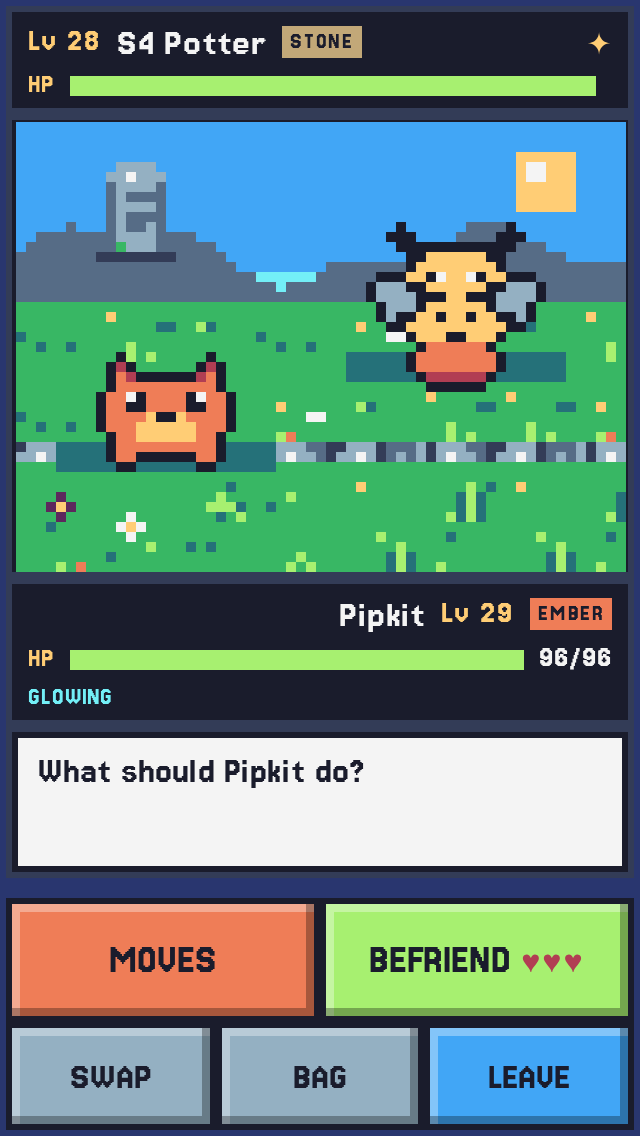
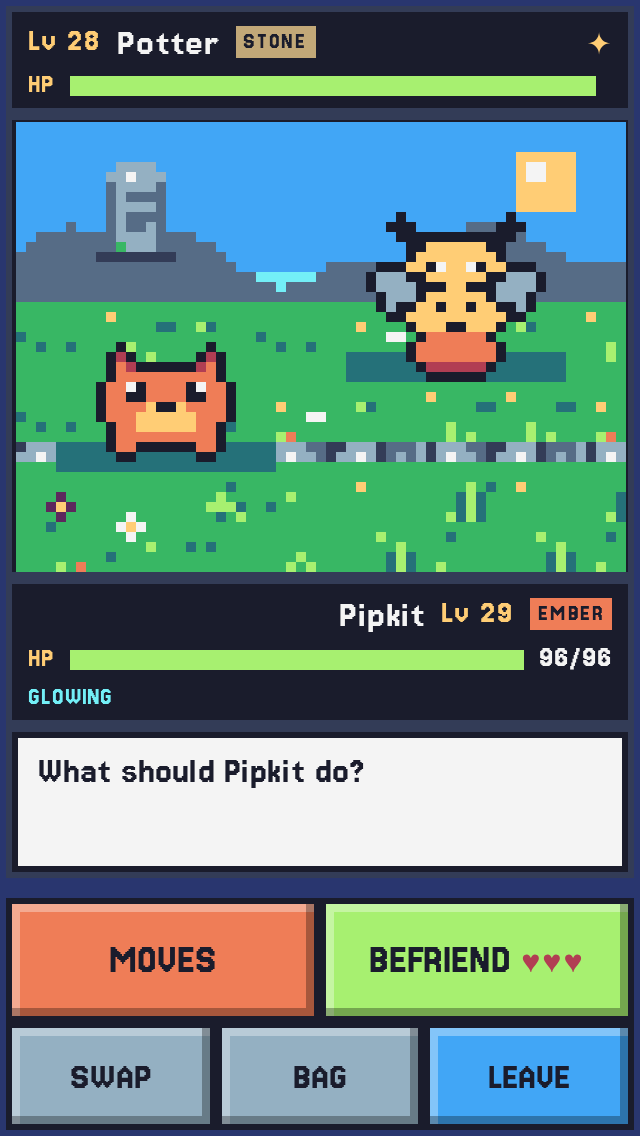
Route 4: shown species names drop the design seed codes ("S8 Walladder" -> "Walladder"), build 20261104-0112
- sprites.js: the twelve new stage names are the PLACEHOLDER names only; S8 / S10 / S1 / S4 stay in comments and ids.
- tests/new_species_act2.spec.js: names updated; no SPECIES stage name and no battle header matches /^S\d+ /.
- handoff/shots/route4/08-battle-*: re-taken at 390 and 320.

Claude-Session: https://claude.ai/code/session_01T4Pbfq5NMyuZaLtWMqoArd

Changed region(s): [[0.5625, 0.1849, 0.875, 0.3697], [0.1562, 0.2773, 0.375, 0.4313], [0.1875, 0.0, 0.5625, 0.0616]]

diff --git a/sprites.js b/sprites.js
@@ -407,24 +407,24 @@ const SPECIES = [
   // spawnNear: a tile char the line prefers to spawn beside (the adder basks by drystone walls, D1871); idleMul stretches
   // the wild's idle between steps (the heron stands still, D1871). The heron's stages are full 16-column profiles.
   { id:'adder', habitat:{meadow:4, hot:4, storm:3, mountain:3}, tiles:'grass', tableOnly:true, spawnNear:'h', type:'VOLT', blurb:"A wall adder. Its zigzag back looks like a lightning mark.", stages:[
-    { name:"S8 Adderlet", col:{a:PAL.h,b:PAL.y,c:PAL.m,d:PAL.r,x:PAL.d}, half:['........','........','........','........','........','......aa','.....aaa','....aiea','....aeea','.....aad','......ab','....abab','..aababa','.abaabab','.caaaaaa','..cccccc']},
-    { name:"S8 Walladder", col:{a:PAL.m,b:PAL.y,c:PAL.d,d:PAL.r,x:PAL.k}, half:['........','........','......aa','.....aaa','....aaaa','....aiea','....aeea','.....aad','......ab','......ba','......ab','...aabaa','..abaaba','.abaabab','caaaaaaa','.ccccccc']},
-    { name:"S8 Zigzag", col:{a:PAL.m,b:PAL.y,c:PAL.d,d:PAL.r,x:PAL.w}, half:['....x..x','....b.bb','....aaaa','...aaaaa','...aaiea','...aaeea','...baaaa','....aaad','.....aab','.....aba','..aabaab','.aabaaba','abaabaab','baabaaba','caaaaaaa','cccccccc']}
+    { name:"Adderlet", col:{a:PAL.h,b:PAL.y,c:PAL.m,d:PAL.r,x:PAL.d}, half:['........','........','........','........','........','......aa','.....aaa','....aiea','....aeea','.....aad','......ab','....abab','..aababa','.abaabab','.caaaaaa','..cccccc']},
+    { name:"Walladder", col:{a:PAL.m,b:PAL.y,c:PAL.d,d:PAL.r,x:PAL.k}, half:['........','........','......aa','.....aaa','....aaaa','....aiea','....aeea','.....aad','......ab','......ba','......ab','...aabaa','..abaaba','.abaabab','caaaaaaa','.ccccccc']},
+    { name:"Zigzag", col:{a:PAL.m,b:PAL.y,c:PAL.d,d:PAL.r,x:PAL.w}, half:['....x..x','....b.bb','....aaaa','...aaaaa','...aaiea','...aaeea','...baaaa','....aaad','.....aab','.....aba','..aabaab','.aabaaba','abaabaab','baabaaba','caaaaaaa','cccccccc']}
   ]},
   { id:'heron', habitat:{water:6, rain:3, fog:3, night:3}, tiles:'shore', tableOnly:true, idleMul:3, type:'TIDE', blurb:"A striped reed-heron. It stands so still it becomes a reed.", stages:[
-    { name:"S10 Reedling", grid:['................','................','................','.......F........','.......G........','......GGG.......','......GkG.......','......GGGt......','.......GGtt.....','......GwGttt....','.....GwwGttt....','.....GwwGGtt....','......GwGGt.....','.......GGG......','.......F.F......','.......F.F......']},
-    { name:"S10 Stalker", grid:['.......F........','.......G........','.......G........','......GGG.......','......GkGt......','......GGGt......','.......GF.......','.......FG.......','.......GF.......','.......FGt......','......GwGtt.....','.....GwwGttt....','.....GwwGGttt...','......GwGGtt....','.......GGG......','.......F.F......']},
-    { name:"S10 Boomer", grid:['.......F........','.......G........','.......G.tt.....','......GGGtt.....','......GkGGt.....','......GGGG......','......GwFG......','.....GwwGF......','.....GwFGG......','.....GGFGGt.....','......GGGGtt....','.....tGGGGttt...','....ttGGGGGttt..','.....ttGGGGtt...','.......G..G.....','.......F..F.....']}
+    { name:"Reedling", grid:['................','................','................','.......F........','.......G........','......GGG.......','......GkG.......','......GGGt......','.......GGtt.....','......GwGttt....','.....GwwGttt....','.....GwwGGtt....','......GwGGt.....','.......GGG......','.......F.F......','.......F.F......']},
+    { name:"Stalker", grid:['.......F........','.......G........','.......G........','......GGG.......','......GkGt......','......GGGt......','.......GF.......','.......FG.......','.......GF.......','.......FGt......','......GwGtt.....','.....GwwGttt....','.....GwwGGttt...','......GwGGtt....','.......GGG......','.......F.F......']},
+    { name:"Boomer", grid:['.......F........','.......G........','.......G.tt.....','......GGGtt.....','......GkGGt.....','......GGGG......','......GwFG......','.....GwwGF......','.....GwFGG......','.....GGFGGt.....','......GGGGtt....','.....tGGGGttt...','....ttGGGGGttt..','.....ttGGGGtt...','.......G..G.....','.......F..F.....']}
   ]},
   { id:'dipper', habitat:{water:6, cold:4, rain:2}, tiles:'shore', tableOnly:true, type:'TIDE', blurb:"Walks the stream bed. Hunches when the water runs cold.", stages:[
-    { name:"S1 Chick", col:{a:PAL.m,b:PAL.w,c:PAL.d,d:PAL.y,x:PAL.k}, half:['........','........','........','........','.....aaa','....aaaa','...aaaaa','...aeiaa','...aaaaa','.ccaaabb','c.caabbb','..caabbb','...caabb','....aaaa','......d.','.....dd.']},
-    { name:"S1 Walker", col:{a:PAL.m,b:PAL.w,c:PAL.d,d:PAL.y,x:PAL.k}, half:['........','........','.....aaa','....aaaa','...aaaaa','...aeiaa','...aaaax','..aaaaab','.caaaabb','ccaaabbb','ccaaabbb','.caaaabb','..caaaaa','...aaaaa','.....d..','....dd..']},
-    { name:"S1 Diver", col:{a:PAL.m,b:PAL.w,c:PAL.n,d:PAL.y,x:PAL.k}, half:['......c.','.....cc.','....aaaa','...aaaaa','..aaaaaa','..aaeiaa','..aaaaax','.aaaaaab','ccaaaabb','cccaabbb','cccaabbb','.ccaaabb','..caaaaa','...aaaaa','....d...','...dd...']}
+    { name:"Chick", col:{a:PAL.m,b:PAL.w,c:PAL.d,d:PAL.y,x:PAL.k}, half:['........','........','........','........','.....aaa','....aaaa','...aaaaa','...aeiaa','...aaaaa','.ccaaabb','c.caabbb','..caabbb','...caabb','....aaaa','......d.','.....dd.']},
+    { name:"Walker", col:{a:PAL.m,b:PAL.w,c:PAL.d,d:PAL.y,x:PAL.k}, half:['........','........','.....aaa','....aaaa','...aaaaa','...aeiaa','...aaaax','..aaaaab','.caaaabb','ccaaabbb','ccaaabbb','.caaaabb','..caaaaa','...aaaaa','.....d..','....dd..']},
+    { name:"Diver", col:{a:PAL.m,b:PAL.w,c:PAL.n,d:PAL.y,x:PAL.k}, half:['......c.','.....cc.','....aaaa','...aaaaa','..aaaaaa','..aaeiaa','..aaaaax','.aaaaaab','ccaaaabb','cccaabbb','cccaabbb','.ccaaabb','..caaaaa','...aaaaa','....d...','...dd...']}
   ]},
   { id:'jugwasp', habitat:{mountain:4, hot:3, meadow:2}, tiles:'grass', tableOnly:true, type:'STONE', blurb:"Shapes tiny clay jugs on warm banks. Carries one always.", stages:[
-    { name:"S4 Bearer", col:{a:PAL.y,b:PAL.h,c:PAL.o,d:PAL.r,x:PAL.k}, half:['........','........','...x....','....x...','.....aaa','....aeia','.bb..aaa','bbbb..xa','.bb..aaa','....aaxa','....aaaa','.....aax','......cc','.....ccc','.....ccc','......dd']},
-    { name:"S4 Potter", col:{a:PAL.y,b:PAL.h,c:PAL.o,d:PAL.r,x:PAL.k}, half:['........','..x.....','...x....','....xaaa','....aaaa','...aaeia','bbb..aaa','bbbb..xa','.bbb.aaa','.b..aaxa','...aaaaa','....aaax','.....ccc','....cccc','....cccc','.....ddd']},
-    { name:"S4 Cluster", col:{a:PAL.y,b:PAL.h,c:PAL.o,d:PAL.r,x:PAL.k}, half:['.x......','..x.....','...xaaaa','...aaaaa','...aaeia','bb..aaaa','bbbb..xa','bbbb.aaa','.bb.aaxa','...aaaaa','....aaax','.cc..ccc','cccccccc','cccccccc','.dd.dddd','........']}
+    { name:"Bearer", col:{a:PAL.y,b:PAL.h,c:PAL.o,d:PAL.r,x:PAL.k}, half:['........','........','...x....','....x...','.....aaa','....aeia','.bb..aaa','bbbb..xa','.bb..aaa','....aaxa','....aaaa','.....aax','......cc','.....ccc','.....ccc','......dd']},
+    { name:"Potter", col:{a:PAL.y,b:PAL.h,c:PAL.o,d:PAL.r,x:PAL.k}, half:['........','..x.....','...x....','....xaaa','....aaaa','...aaeia','bbb..aaa','bbbb..xa','.bbb.aaa','.b..aaxa','...aaaaa','....aaax','.....ccc','....cccc','....cccc','.....ddd']},
+    { name:"Cluster", col:{a:PAL.y,b:PAL.h,c:PAL.o,d:PAL.r,x:PAL.k}, half:['.x......','..x.....','...xaaaa','...aaaaa','...aaeia','bb..aaaa','bbbb..xa','bbbb.aaa','.bb.aaxa','...aaaaa','....aaax','.cc..ccc','cccccccc','cccccccc','.dd.dddd','........']}
   ]},
 ];
 

diff --git a/index.html b/index.html
@@ -2,7 +2,7 @@
 <html lang="en">
 <head>
 <meta charset="utf-8">
-<meta name="kw-build" content="20261104-0012"><meta name="viewport" content="width=device-width, initial-scale=1, maximum-scale=1, user-scalable=no, viewport-fit=cover"><meta http-equiv="Cache-Control" content="no-cache">
+<meta name="kw-build" content="20261104-0112"><meta name="viewport" content="width=device-width, initial-scale=1, maximum-scale=1, user-scalable=no, viewport-fit=cover"><meta http-equiv="Cache-Control" content="no-cache">
 <meta name="theme-color" content="#1a1c2c">
 <meta name="apple-mobile-web-app-capable" content="yes">
 <meta name="mobile-web-app-capable" content="yes">
@@ -10,10 +10,10 @@
 <meta name="application-name" content="Walklings">
 <meta name="apple-mobile-web-app-title" content="Walklings">
 <meta name="description" content="Walklings: raise a pixel Walkling, walk the map and befriend wild ones.">
-<link rel="icon" href="icons/icon-192.png?v=20261104-0012">
-<link rel="apple-touch-icon" href="icons/apple-touch-icon.png?v=20261104-0012">
-<link rel="manifest" href="manifest.json?v=20261104-0012">
-<link rel="stylesheet" href="style.css?v=20261104-0012"></head><body>
+<link rel="icon" href="icons/icon-192.png?v=20261104-0112">
+<link rel="apple-touch-icon" href="icons/apple-touch-icon.png?v=20261104-0112">
+<link rel="manifest" href="manifest.json?v=20261104-0112">
+<link rel="stylesheet" href="style.css?v=20261104-0112"></head><body>
 <div id="app">
   <header id="top">
     <div class="who"><button id="repBtn" class="icon-btn" type="button" aria-label="People"><canvas id="repIcon" width="12" height="12" aria-hidden="true"></canvas></button><canvas id="hdrIcon" width="18" height="18"></canvas><span id="hdrName">Walklings</span><span id="fastTag" class="fast-tag" title="Debug fast decay is on" hidden>FAST</span><button id="dbgTag" class="fast-tag dbg-tag" type="button" title="Debug tools" aria-label="Debug tools" hidden>DBG</button></div>
@@ -786,29 +786,29 @@
 </div>
 <!-- New-build notice (version.json differs from window.BUILD); never shown over a battle or an overlay -->
 <div id="buildBar" class="build-bar" role="status" hidden><button id="buildGo" class="build-go" type="button">New build ready. Tap to refresh.</button><button id="buildX" class="build-x" type="button" aria-label="Dismiss">X</button></div>
-<script>window.BUILD = "20261104-0012";</script>
-<script src="sprites.js?v=20261104-0012"></script>
-<script src="keeper.js?v=20261104-0012"></script>
-<script src="stats.js?v=20261104-0012"></script>
-<script src="moves.js?v=20261104-0012"></script>
-<script src="mv_fx.js?v=20261104-0012"></script>
-<script src="battle_bg.js?v=20261104-0012"></script>
-<script src="data/mapdata.js?v=20261104-0012"></script>
-<script src="data/hc_city_v2.js?v=20261104-0012"></script>
-<script src="quests.js?v=20261104-0012"></script>
-<script src="standing.js?v=20261104-0012"></script>
-<script src="rep.js?v=20261104-0012"></script>
-<script src="save.js?v=20261104-0012"></script>
-<script src="clock.js?v=20261104-0012"></script>
-<script src="env.js?v=20261104-0012"></script>
-<script src="sfx.js?v=20261104-0012"></script>
-<script src="minigames.js?v=20261104-0012"></script>
-<script src="ribbit.js?v=20261104-0012"></script>
-<script src="news.js?v=20261104-0012"></script>
-<script src="cloud_config.js?v=20261104-0012"></script>
-<script src="cloud.js?v=20261104-0012"></script>
-<script src="net.js?v=20261104-0012"></script>
-<script src="debug_ui.js?v=20261104-0012"></script>
-<script src="glimmer_fleet.js?v=20261104-0012"></script>
-<script src="data/nav_art.js?v=20261104-0012"></script>
-<script src="game.js?v=20261104-0012"></script></body></html>
+<script>window.BUILD = "20261104-0112";</script>
+<script src="sprites.js?v=20261104-0112"></script>
+<script src="keeper.js?v=20261104-0112"></script>
+<script src="stats.js?v=20261104-0112"></script>
+<script src="moves.js?v=20261104-0112"></script>
+<script src="mv_fx.js?v=20261104-0112"></script>
+<script src="battle_bg.js?v=20261104-0112"></script>
+<script src="data/mapdata.js?v=20261104-0112"></script>
+<script src="data/hc_city_v2.js?v=20261104-0112"></script>
+<script src="quests.js?v=20261104-0112"></script>
+<script src="standing.js?v=20261104-0112"></script>
+<script src="rep.js?v=20261104-0112"></script>
+<script src="save.js?v=20261104-0112"></script>
+<script src="clock.js?v=20261104-0112"></script>
+<script src="env.js?v=20261104-0112"></script>
+<script src="sfx.js?v=20261104-0112"></script>
+<script src="minigames.js?v=20261104-0112"></script>
+<script src="ribbit.js?v=20261104-0112"></script>
+<script src="news.js?v=20261104-0112"></script>
+<script src="cloud_config.js?v=20261104-0112"></script>
+<script src="cloud.js?v=20261104-0112"></script>
+<script src="net.js?v=20261104-0112"></script>
+<script src="debug_ui.js?v=20261104-0112"></script>
+<script src="glimmer_fleet.js?v=20261104-0112"></script>
+<script src="data/nav_art.js?v=20261104-0112"></script>
+<script src="game.js?v=20261104-0112"></script></body></html>

diff --git a/tests/new_species_act2.spec.js b/tests/new_species_act2.spec.js
@@ -1,6 +1,6 @@
 /* NEW SPECIES, Act 2 (design repo, private: ROUTE_TO_GOVERNOR v0.1.1 §7, D1855-D1858, D1862, D1871; KILNMOUTH v0.1.1 §4.4):
    four new lines appended to SPECIES in landing order: S8 wall adder `adder` (VOLT), S10 reed-heron `heron` (TIDE), S1
-   stream-walker `dipper` (TIDE), S4 jug wasp `jugwasp` (STONE). Names are PLACEHOLDER. S11 and S12 stay parked (not built).
+   stream-walker `dipper` (TIDE), S4 jug wasp `jugwasp` (STONE). Shown names are the PLACEHOLDER stage names only; the seed codes (S8...) stay in comments and ids. S11 and S12 stay parked (not built).
    N1-N8 of ROUTE_TO_GOVERNOR §10.3. Runs at 320, 375 and 390 (@w1 rows at 320 only); Modern controls; reduced motion where it
    matters; zero console errors; the save stays pixelpets.save.v2, v 2. */
 const { test, expect } = require('@playwright/test');
@@ -15,10 +15,10 @@ const read = f => fs.readFileSync(path.join(ROOT, f), 'utf8');
 // The SPECIES order on main when this branch was cut (indices are save-relevant: v2 keeps a position table).
 const MAIN_IDS = ['ember', 'tide', 'bloom', 'stone', 'volt', 'frost', 'gust', 'shade', 'beetle', 'mole', 'crab', 'moth', 'vane',
   'dormouse', 'byte', 'fetch', 'skink', 'otter', 'owl', 'snail', 'tallybat', 'dimlamp', 'filecrow', 'cordhound', 'humwisp'];
-const NEW = { adder: { type: 'VOLT', sig: 'zigzag_strike', names: ['S8 Adderlet', 'S8 Walladder', 'S8 Zigzag'], full: false },
-  heron: { type: 'TIDE', sig: 'reed_still', names: ['S10 Reedling', 'S10 Stalker', 'S10 Boomer'], full: true },
-  dipper: { type: 'TIDE', sig: 'dip_bob', names: ['S1 Chick', 'S1 Walker', 'S1 Diver'], full: false },
-  jugwasp: { type: 'STONE', sig: 'jug_toss', names: ['S4 Bearer', 'S4 Potter', 'S4 Cluster'], full: false } };
+const NEW = { adder: { type: 'VOLT', sig: 'zigzag_strike', names: ['Adderlet', 'Walladder', 'Zigzag'], full: false },
+  heron: { type: 'TIDE', sig: 'reed_still', names: ['Reedling', 'Stalker', 'Boomer'], full: true },
+  dipper: { type: 'TIDE', sig: 'dip_bob', names: ['Chick', 'Walker', 'Diver'], full: false },
+  jugwasp: { type: 'STONE', sig: 'jug_toss', names: ['Bearer', 'Potter', 'Cluster'], full: false } };
 const IDS = Object.keys(NEW);
 const ACT1_MAPS = ['proto', 'route1', 'fernbrook', 'route2', 'route2_glen', 'hw_cut', 'hw_rim', 'hw_falls', 'cobble_quarry', 'route3'];
 
@@ -53,6 +53,9 @@ test('N1 @w1: every index on main is kept; the four lines are appended with thre
   expect(r.ids.slice(25)).toEqual(IDS);
   expect(r.save).toEqual(r.ids);
   expect(r.parked).toEqual([true, true]);   // S11 and S12 stay parked (D1856)
+  // Shown names never carry a design seed code ("S8 "): every stage name of every line, as the battle, party, journal and
+  // befriend text read it.
+  expect(await page.evaluate(() => SPECIES.flatMap(sp => sp.stages.map(st => st.name)).filter(n => /^S\d+ /.test(n)))).toEqual([]);
   for (const l of r.lines) {
     expect(l.type, l.id).toBe(NEW[l.id].type);
     expect(l.names, l.id).toEqual(NEW[l.id].names);
@@ -222,10 +225,11 @@ test('N8: reduced motion: no new sprite animation, and a battle with a new line 
   await page.waitForFunction(() => PixelPets.battle.on && PixelPets.battle.state === 'CHOOSE', null, { timeout: 20000 });
   const r = await page.evaluate(() => {
     const vw = innerWidth, over = [...document.querySelectorAll('#ovBattle *')].filter(e => { const b = e.getBoundingClientRect(); return b.width && (b.right > vw + 1 || b.left < -1); }).map(e => e.id || e.className);
-    return { over, name: (document.querySelector('#ovBattle').textContent || '').includes('S10 Boomer'), anim: !!SPECIES[SPX('heron')].anim };
+    return { over, name: (document.querySelector('#ovBattle').textContent || '').includes('Boomer'), shown: (document.querySelector('#btFoeName') || {}).textContent || '', anim: !!SPECIES[SPX('heron')].anim };
   });
   expect(r.over).toEqual([]);
   expect(r.name).toBe(true);
+  expect(r.shown).not.toMatch(/^S\d+ /);   // no design seed code in a shown name
   expect(r.anim).toBe(false);
   await page.evaluate(() => PixelPets.battle.close());
 });

diff --git a/CHANGELOG.md b/CHANGELOG.md
@@ -14,6 +14,7 @@ Newest first. The build stamp is `version.json` and the `?v=` on each script in 
 - Commit(s) + build id: claude/route4, six slice commits; build in the PR.
 - Tests run and result (widths, checks): results in the PR.
 - Decisions made (colour + reasoning): D1850-D1876 and D1880-D1881 as settled. Engine notes (green): `tableOnly`, `spawnNear`, `idleMul` species fields; a `map:<id>` condition; a warp's `city` target; `chapterOf` counts `story.seal4` and `story.seal5`.
+- Shown species names are the PLACEHOLDER stage names only (Adderlet, Walladder, Zigzag; Reedling, Stalker, Boomer; Chick, Walker, Diver; Bearer, Potter, Cluster); the packets' seed codes (S8, S10, S1, S4) stay in comments and ids (coordinator, Nov 4).
 - Anything left unfinished: KILNMOUTH's east warps and Bram's Kilnmouth line wait on `km_road`; the `route4` music cue and the heron's night boom are asks of SCENE_MUSIC; prop and tile art are drafts from the packet's descriptions.
 
 ## 2026-11-03 23:23 ET: Build: the endings readers and the report skip (REPORTS_AND_ENDINGS v0.1.1 core E1; REPORT_FLAGS; D1620-D1629, D1720, D1725, D1726 B)
